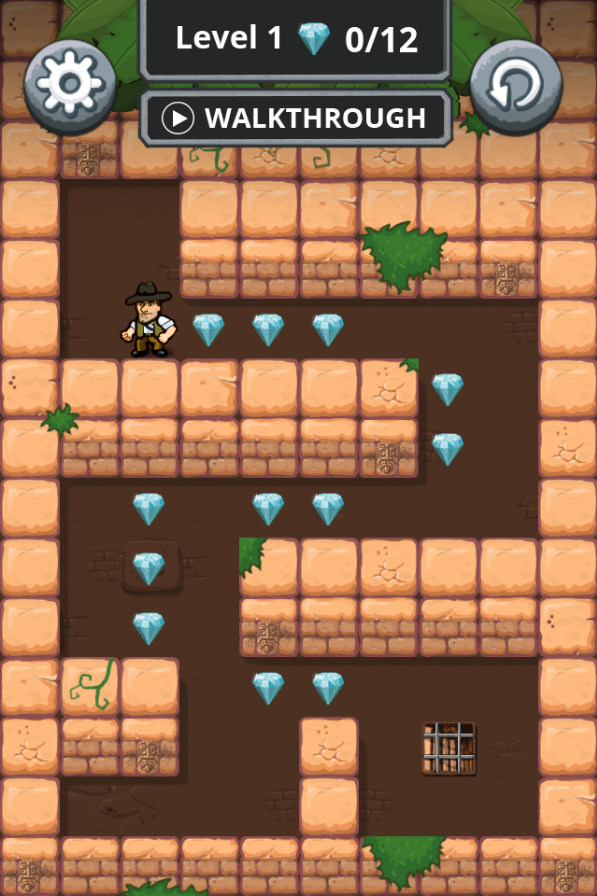
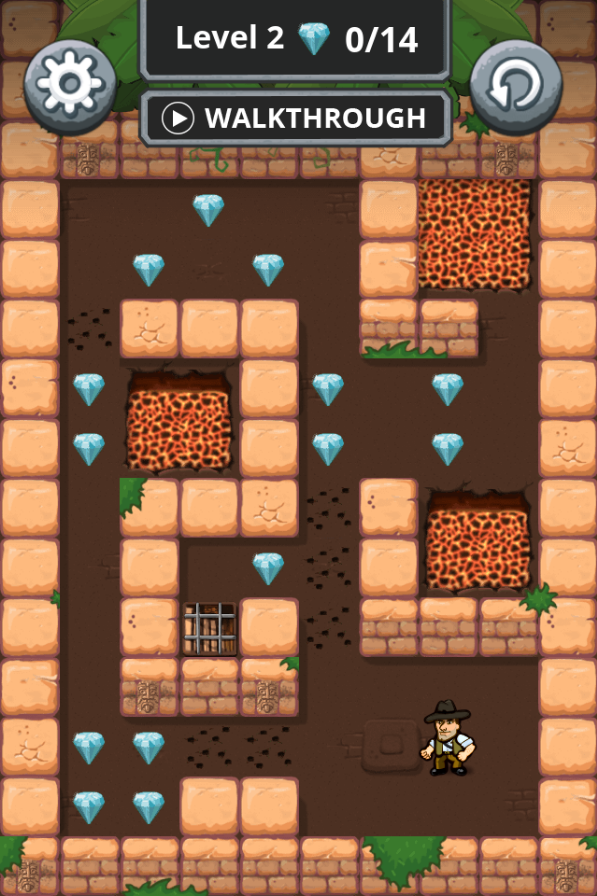
feat: indiana movement level 2 test

diff --git a/indiana/main.py b/indiana/main.py
@@ -6,15 +6,20 @@ from scrapper.scrapper import Scrapper
 target = "https://www.minijuegosgratis.com/v3/games/games/prod/219431/diamond-rush/index.html?mp_api_as3_url=https%3A%2F%2Fssl.minijuegosgratis.com%2Flechuck%2Fas3%2Flatest.swf&mp_api_as3_url_bck=https%3A%2F%2Fapi.minijuegos.com%2Flechuck%2Fclient-as%2F&mp_api_id=1951&mp_api_js_url=https%3A%2F%2Fssl.minijuegosgratis.com%2Flechuck%2Fjs%2Flatest.js&mp_api_js_url_bck=https%3A%2F%2Fapi.minijuegos.com%2Flechuck%2Fclient-js%2F&mp_assets=https%3A%2F%2Fs2.minijuegosgratis.com%2F&mp_embed=0&mp_game_id=219431&mp_game_uid=diamond-rush&mp_game_url=https%3A%2F%2Fwww.minijuegos.com%2Fembed%2Fdiamond-rush&mp_int=1&mp_locale=es_ES&mp_player_type=IFRAME&mp_site_https_url=https%3A%2F%2Fwww.minijuegos.com%2F&mp_site_name=minijuegos.com&mp_site_url=https%3A%2F%2Fwww.minijuegos.com%2F&mp_timezone=America%2FBogota&mp_view_type=&mini_signature=cd6fbd6153154338558c881412712ab8&xdm_e=https%3A%2F%2Fwww.minijuegos.com&xdm_c=default9291&xdm_p=1"
 path_to_image = "resources/current_game.png"
 
-scrapper = Scrapper(target)
-
 
 if __name__ == '__main__':
+    level = "2"
+    scrapper = Scrapper(target)
     scrapper.save_game_map_auto(path_to_image)
     # game_map = processor.get_game_map(path_to_image)
-
-    sample_moves = ["right", "right", "right",
-                    "right", "right", "down", "down", "down", "left", "left", "left", "left", "left", "down", "down", "right", "down", "right", "right", "right", "right", "down"]
+    if level == "1":
+        sample_moves = ["right", "right", "right",
+                        "right", "right", "down", "down", "down", "left", "left", "left", "left", "left", "down", "down", "right", "down", "right", "right", "right", "right", "down"]
+    elif level == "2":
+        sample_moves = ["left", "left", "left", "left", "left", "down",
+                        "left", "up", "up", "up", "up", "up", "up", "up", "up", "up", "right",
+                        "up", "right", "right", "down", "right", "down", "down", "right",
+                        "right", "down", "left", "left", "down", "down", "left", "left", "down"]
 
     for move in sample_moves:
         scrapper.move_player(move)

diff --git a/indiana/scrapper/scrapper.py b/indiana/scrapper/scrapper.py
@@ -51,7 +51,7 @@ class Scrapper():
         self.canvas = WebDriverWait(self.driver, 10).until(
             EC.presence_of_element_located((By.XPATH, "//canvas"))
         )
-        sleep(6)
+        sleep(8)
         self.canvas.screenshot(path_to_image)
         return path_to_image
 
